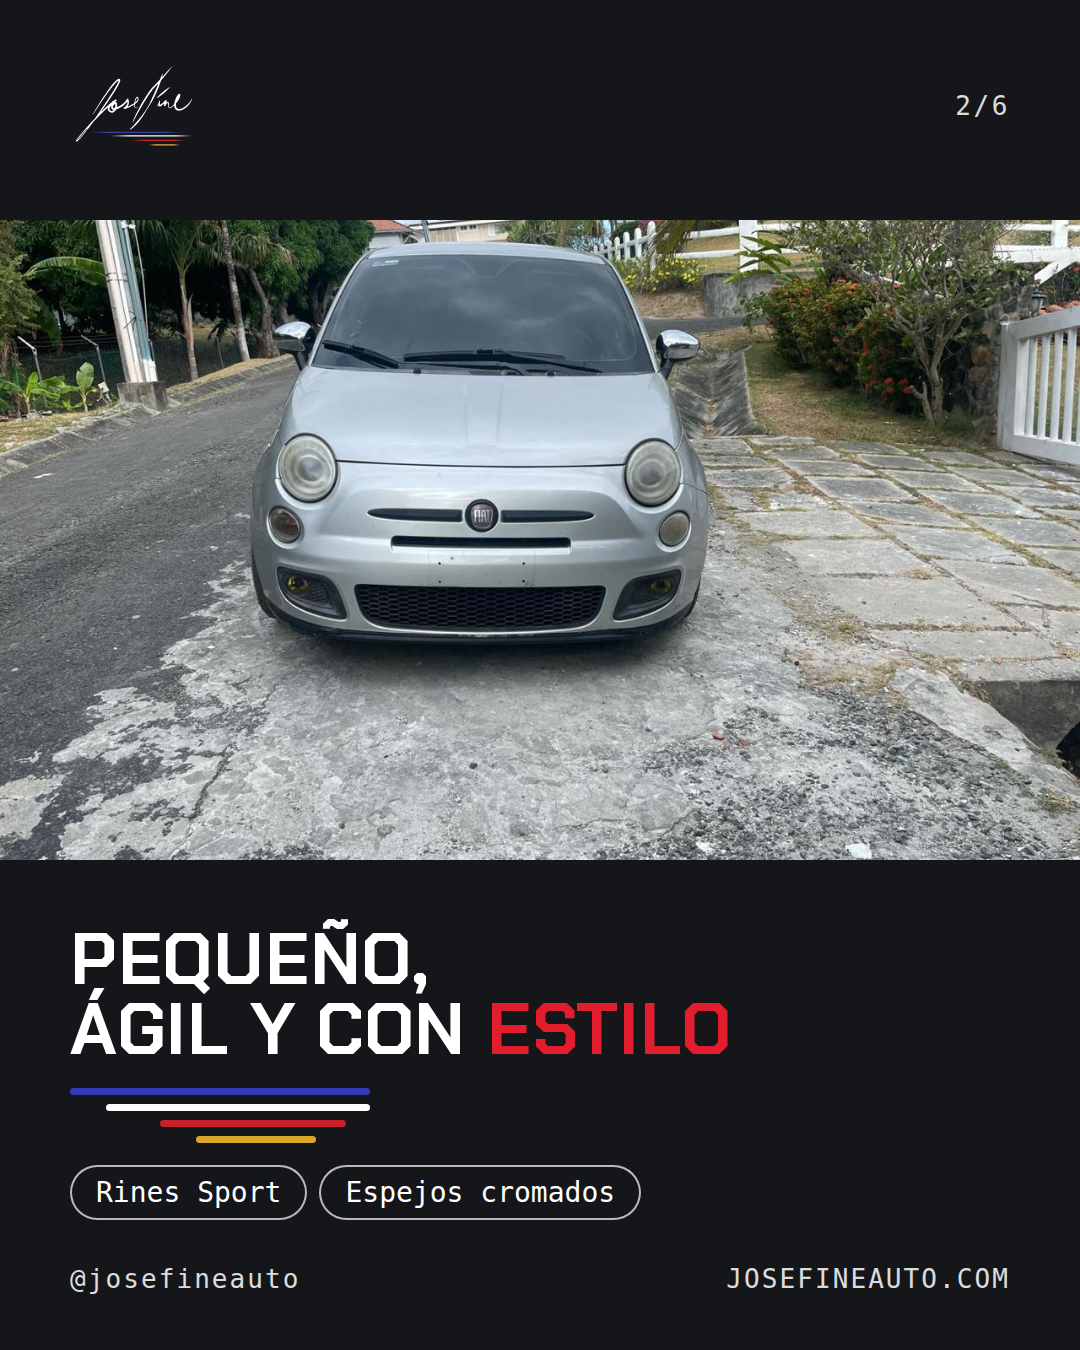
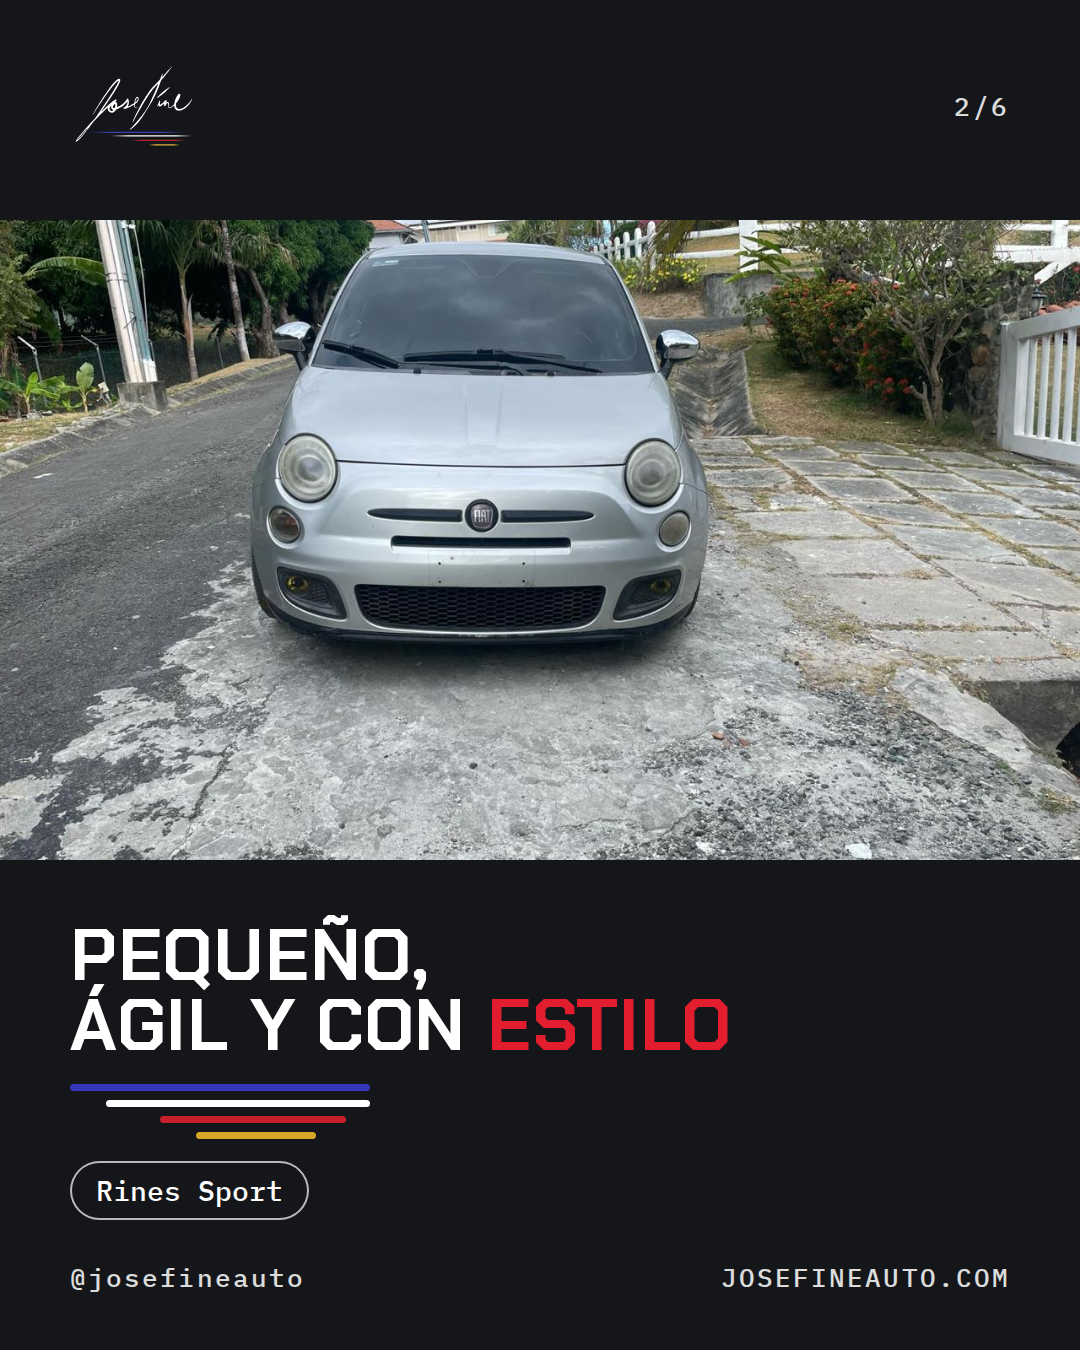
Fiat 500: quita «espejos cromados» (pedido del dueño)
Claude-Session: https://claude.ai/code/session_01Waia73eHNWtSrif5AzmwHD

diff --git a/web/kit/index.html b/web/kit/index.html
@@ -52,7 +52,7 @@
     var WEB = "josefineauto.com";
     var POSTS = [
       { id: "post11-fiat500", n: 6, semana: "HOY · En venta", titulo: "Fiat 500 Sport 2012",
-        texto: "EN VENTA 🔥 Fiat 500 Sport 2012\n\n📍 Panamá · 140,000 km · Automático · Motor 1.4 gasolina · Plata\n\n✅ Versión Sport\n✅ Rines Sport y espejos cromados\n✅ Alerón trasero y escape deportivo\n✅ Pantalla táctil\n✅ Asientos deportivos\n\nPequeño, ágil y con estilo: perfecto para la ciudad.\n\n💬 Precio por DM\n👇 Comenta FIAT y te escribimos\n🌐 " + WEB + "\n\n#fiat #fiat500 #fiat500sport #autospanama #carrospanama #panama #josefineauto" },
+        texto: "EN VENTA 🔥 Fiat 500 Sport 2012\n\n📍 Panamá · 140,000 km · Automático · Motor 1.4 gasolina · Plata\n\n✅ Versión Sport\n✅ Rines Sport\n✅ Alerón trasero y escape deportivo\n✅ Pantalla táctil\n✅ Asientos deportivos\n\nPequeño, ágil y con estilo: perfecto para la ciudad.\n\n💬 Precio por DM\n👇 Comenta FIAT y te escribimos\n🌐 " + WEB + "\n\n#fiat #fiat500 #fiat500sport #autospanama #carrospanama #panama #josefineauto" },
       { id: "post10-coolray", n: 5, semana: "HOY · En venta", titulo: "Geely Coolray 2026",
         texto: "EN VENTA 🔥 Geely Coolray 2026\n\n📍 Panamá · 3,200 km · Automático · Blanco\n\n✅ Prácticamente nuevo\n✅ Pantalla táctil con Apple CarPlay\n✅ Asientos de cuero\n✅ Rines de aluminio\n\n💬 Precio por DM\n👇 Comenta COOLRAY y te escribimos\n🌐 " + WEB + "\n\n#geely #coolray #geelycoolray #carrospanama #autospanama #panama #josefineauto" },
       { id: "post9-corolla", n: 4, semana: "HOY · En venta", titulo: "Toyota Corolla LE 2018",

diff --git a/companion/web.html b/companion/web.html
@@ -675,7 +675,7 @@ window.INVENTARIO = [
       "img/carros/fiat-500-sport-2012/06.jpg",
       "img/carros/fiat-500-sport-2012/07.jpg"
     ],
-    "destacado": "Versión Sport · Rines Sport · Espejos cromados · Alerón trasero · Pantalla táctil · Color plata",
+    "destacado": "Versión Sport · Rines Sport · Alerón trasero · Pantalla táctil · Color plata",
     "defectos": "Golpe en el parachoques delantero derecho · Tapicería del asiento del conductor rota · Faros opacos"
   },
 

diff --git a/web/datos.js b/web/datos.js
@@ -180,7 +180,7 @@ window.INVENTARIO = [
       "img/carros/fiat-500-sport-2012/06.jpg",
       "img/carros/fiat-500-sport-2012/07.jpg"
     ],
-    "destacado": "Versión Sport · Rines Sport · Espejos cromados · Alerón trasero · Pantalla táctil · Color plata",
+    "destacado": "Versión Sport · Rines Sport · Alerón trasero · Pantalla táctil · Color plata",
     "defectos": "Golpe en el parachoques delantero derecho · Tapicería del asiento del conductor rota · Faros opacos"
   },
 
